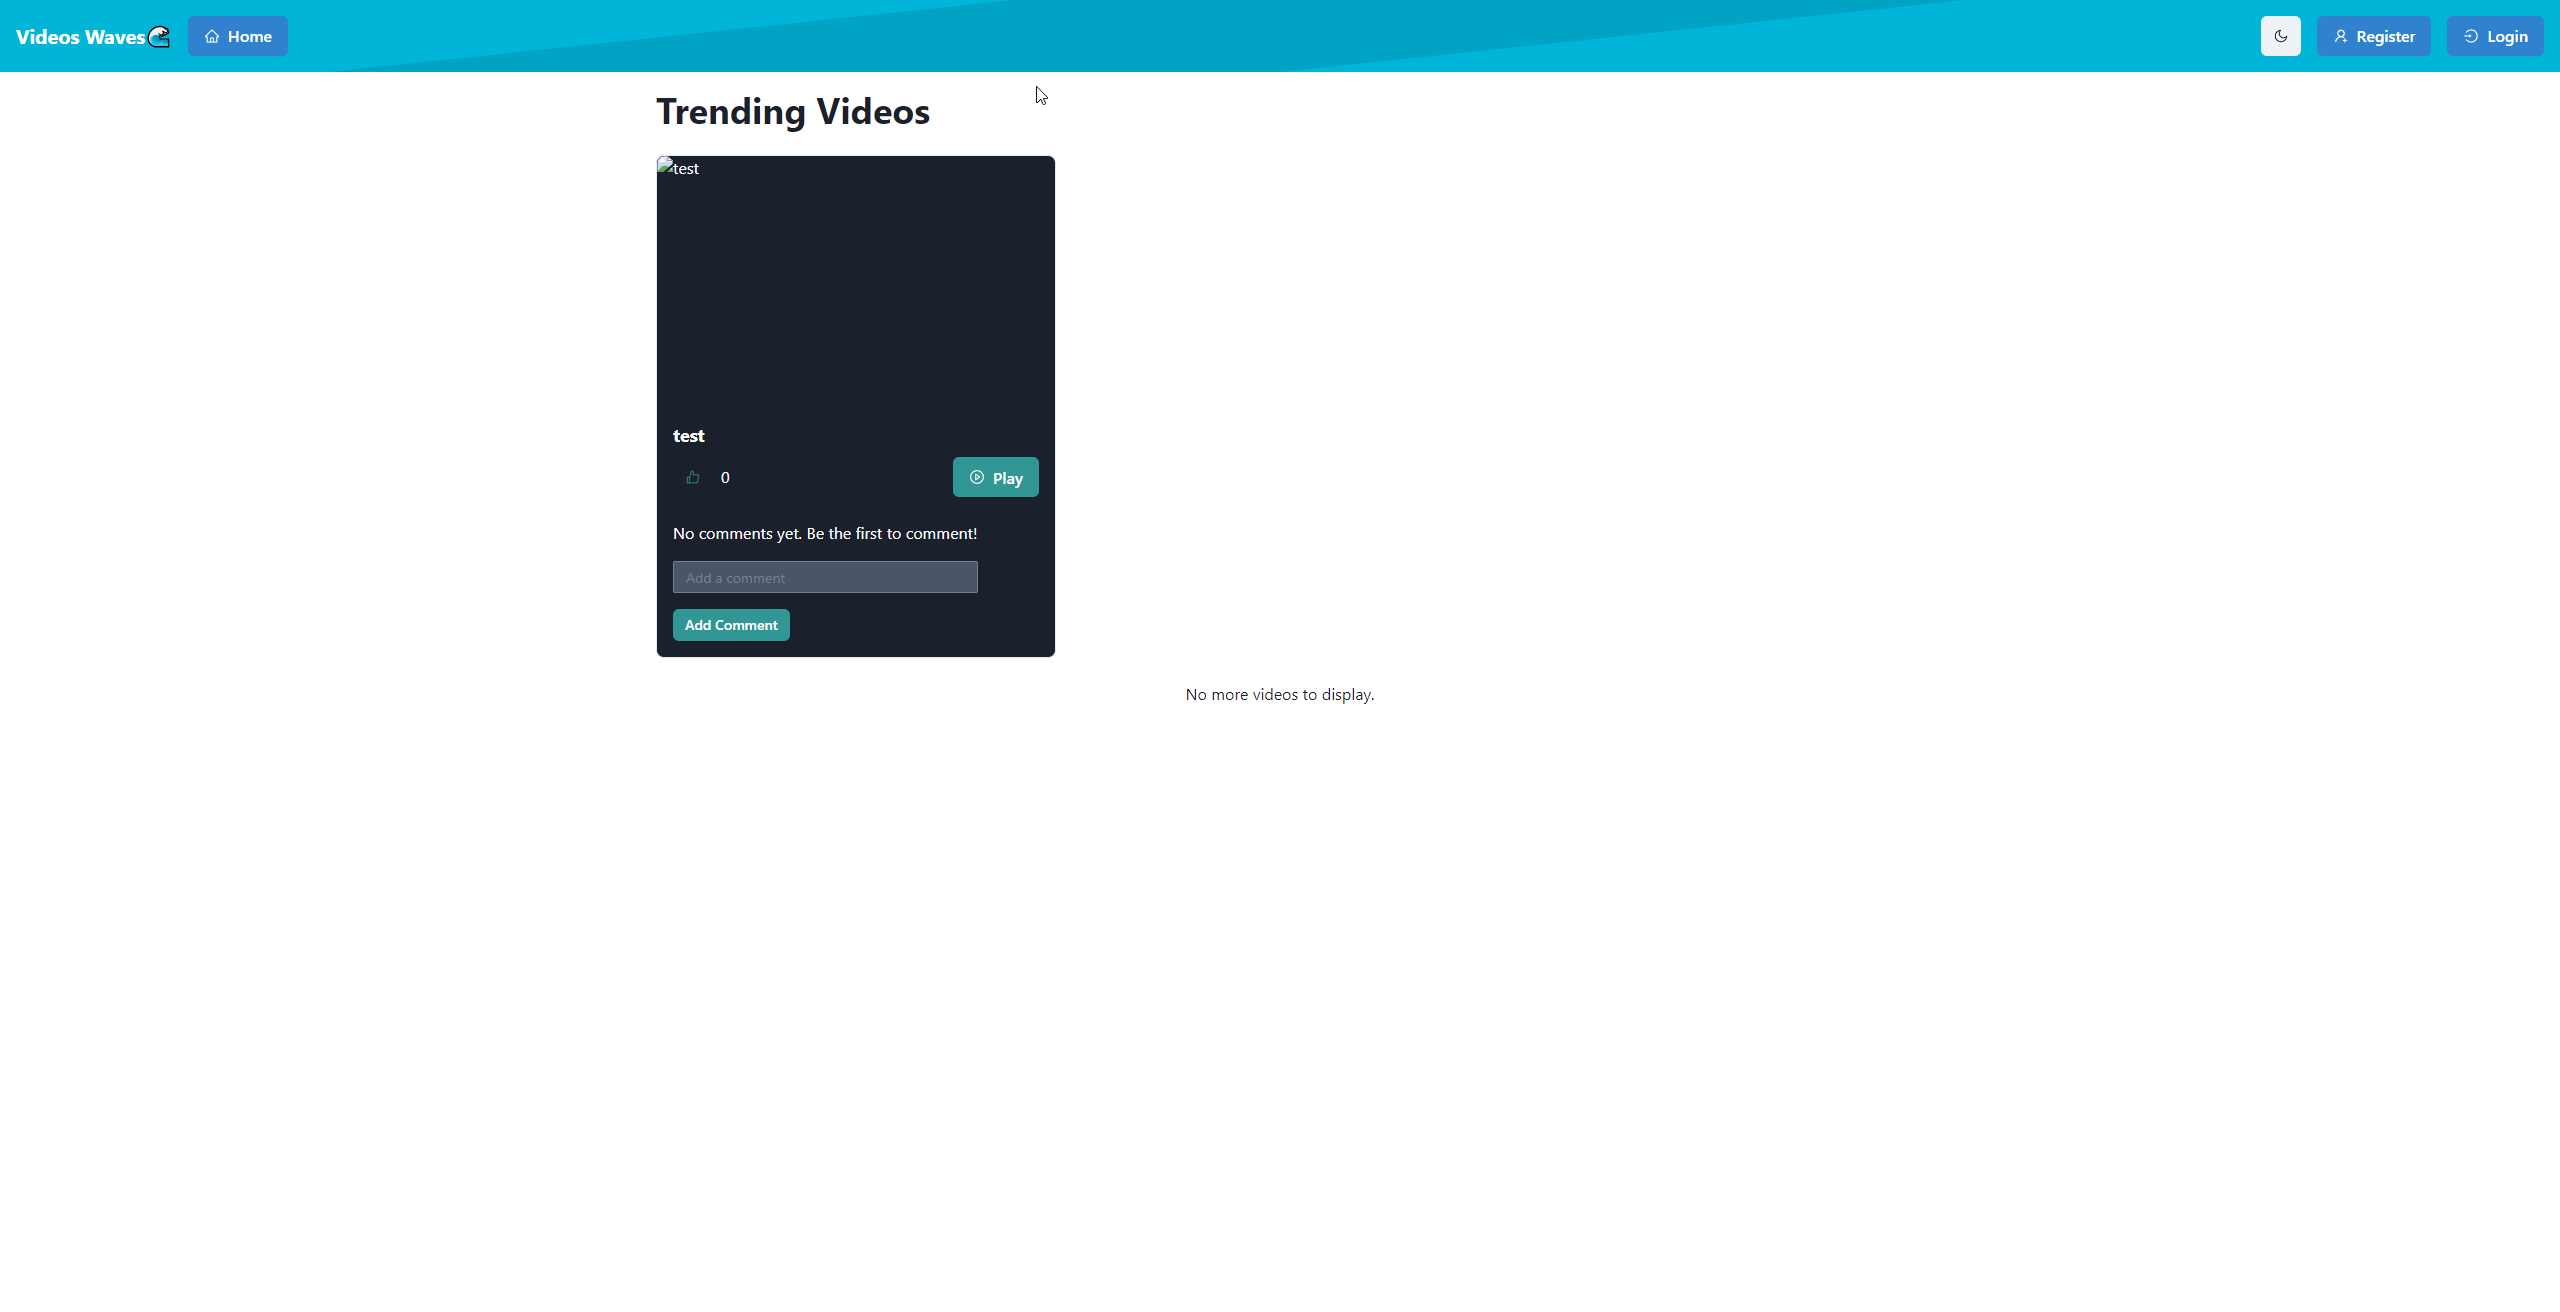
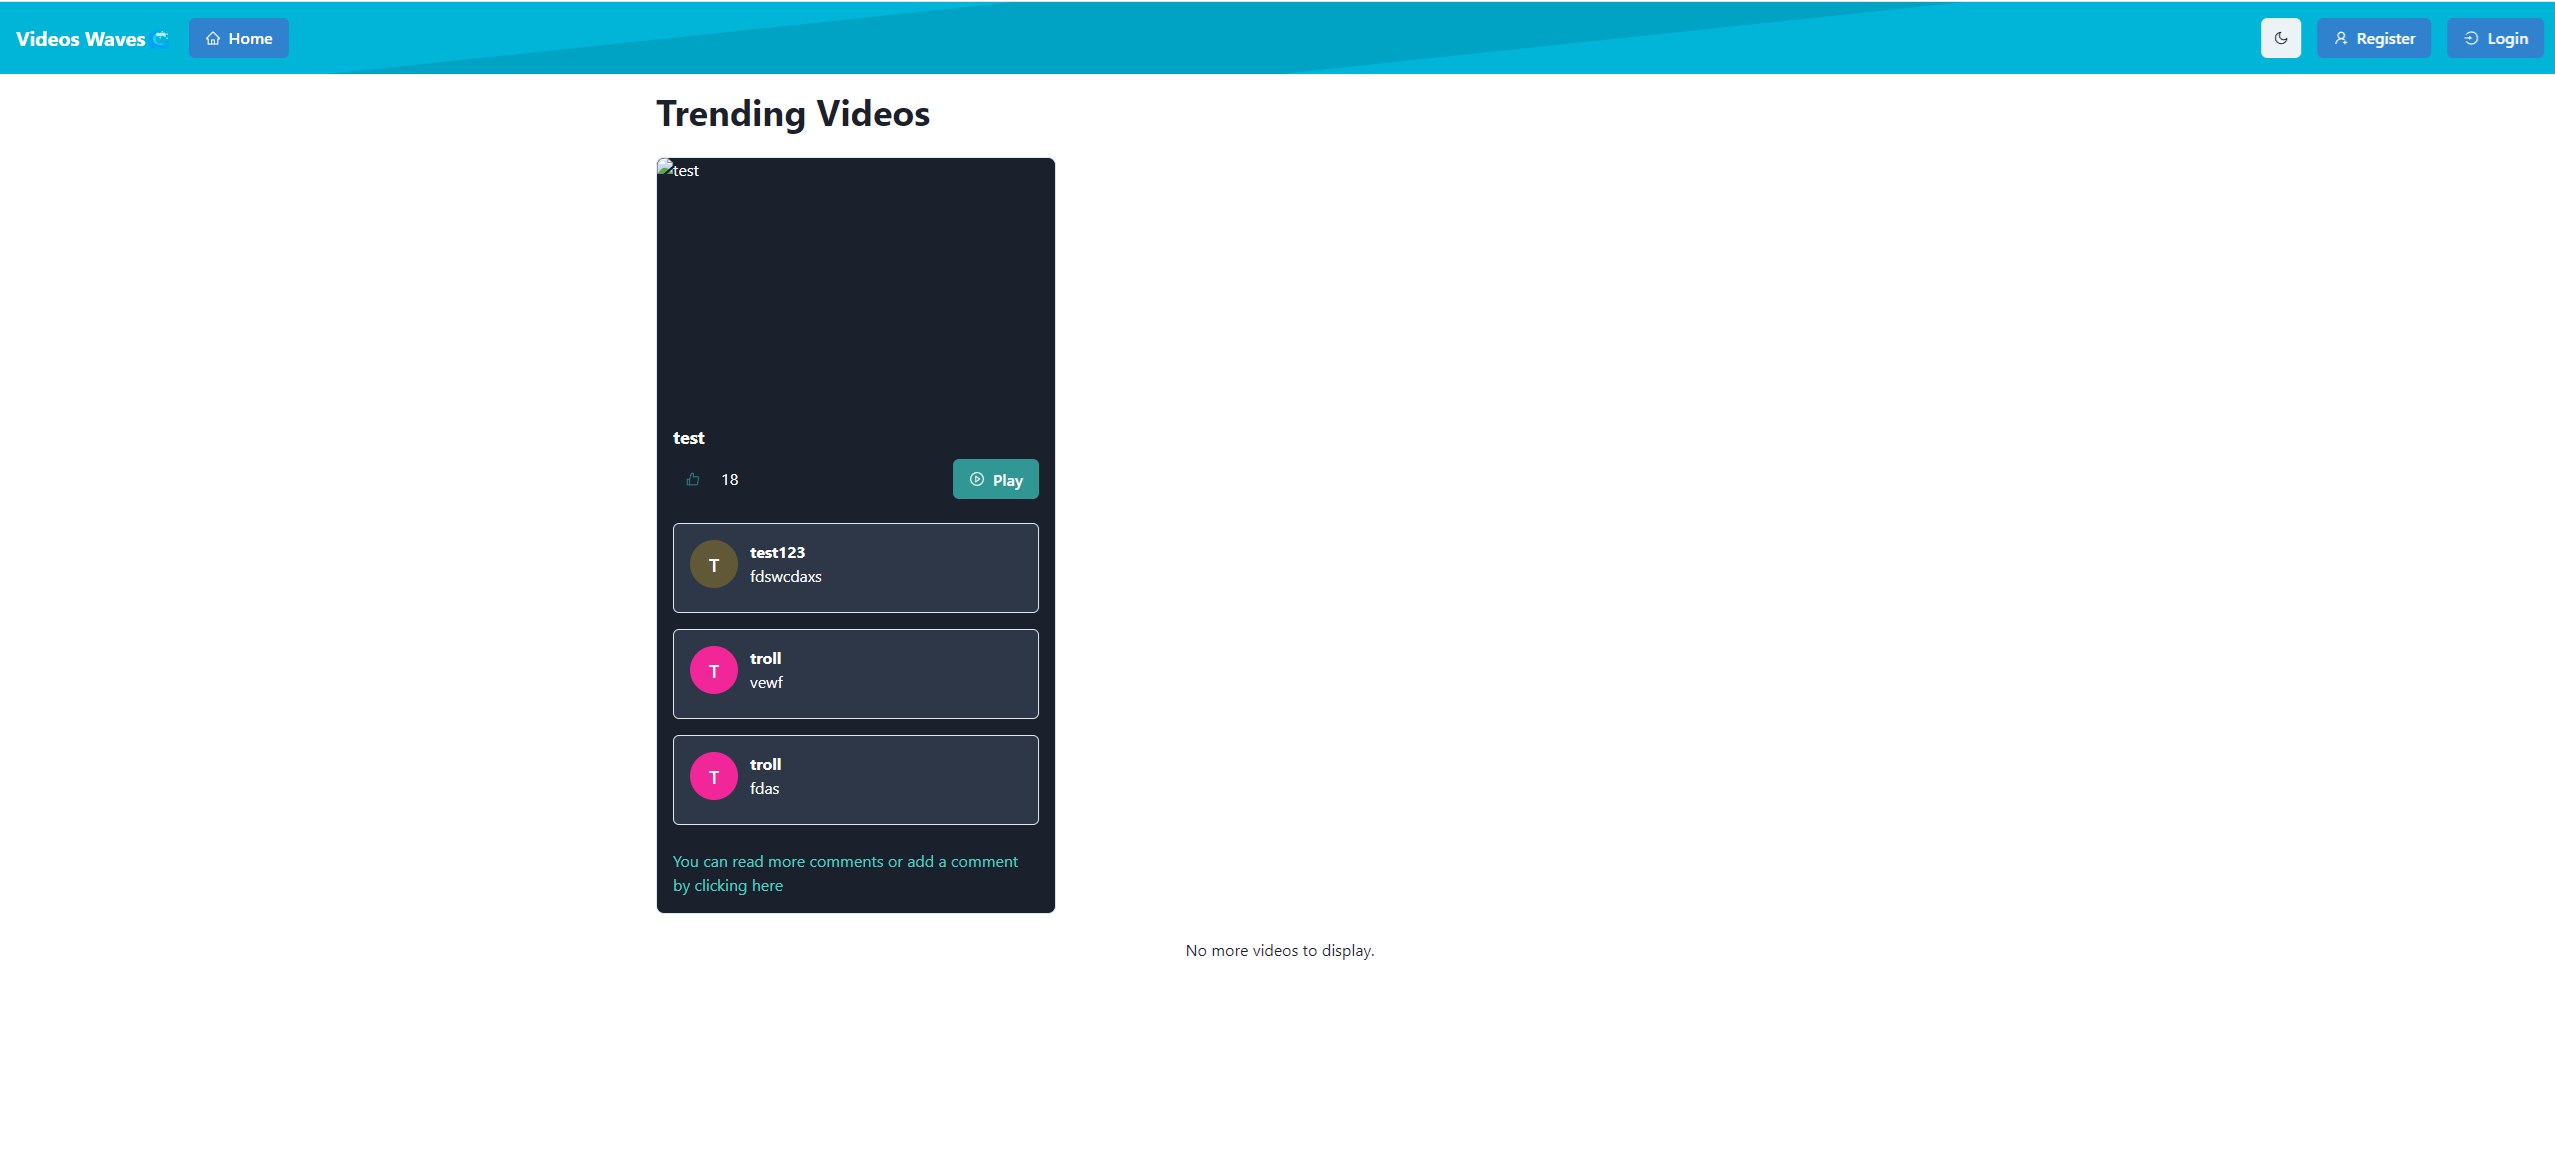
update the readme with new images

diff --git a/README.md b/README.md
@@ -14,7 +14,7 @@
 
 #### this project is small and project to give mimic the behaviour of the TikTok and have some minor tweaks to learn new skills .
 
-#### [project]:Videos Waves
+#### [Project](Video_Waves)
 
 ---
 
@@ -96,6 +96,8 @@ unfortunately i was aiming to make it usable and make it with link 😞 but dont
 
 5. #### dark mode showcase: ![showcase](./images/Dark%20mode.png)
 
+6. #### comment section showcase: ![showcase](./images/CommentSection.png)
+
 ---
 
 #### animated showcase:
@@ -112,6 +114,10 @@ unfortunately i was aiming to make it usable and make it with link 😞 but dont
 
 ![video](./images/darkMode.gif)
 
+#### 4. Comments add/edit/remove
+
+![video](./images/comments%20update_edit.gif)
+
 ### **_Future Updates_**
 
 - [ ] add admin request
@@ -127,7 +133,7 @@ unfortunately i was aiming to make it usable and make it with link 😞 but dont
 
 ##### 2. [Chakra UI](https://v2.chakra-ui.com/) for the nice UX and responisve UI🌊
 
-##### our nice website inspired by:The Populer [TikTok] (https://www.tiktok.com/en/)
+##### our nice website inspired by:The Populer [TikTok](https://www.tiktok.com/en/)
 
 ---
 
